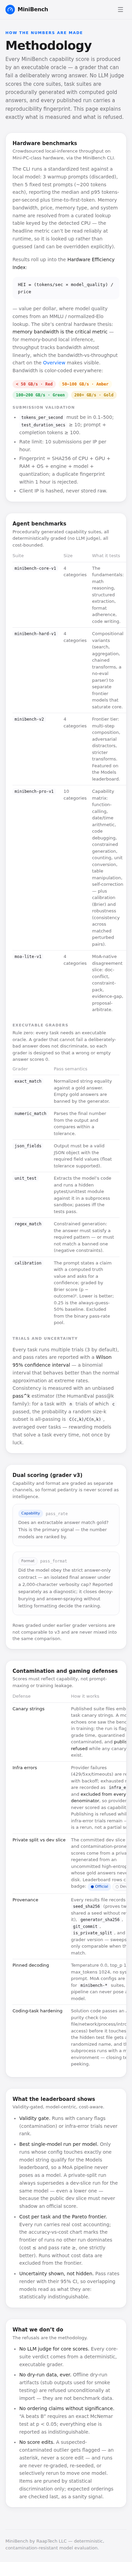
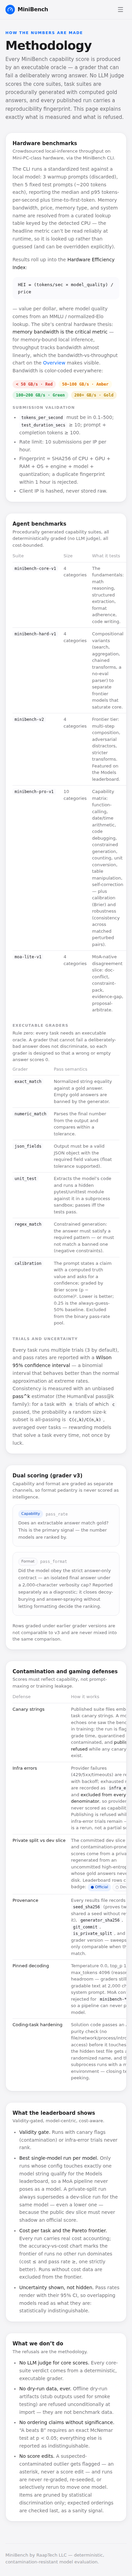
Era 1 red team: fix methodology max_tokens claim, importer counter laundering, auto-widen race
- /methodology: pinned decoding now correctly states max_tokens 4096 (with the
  2,000-char gradable-text cap noted), matching single_model_config.
- import_results: summary counters can no longer launder per-trial canary/infra
  flags (max of summary and computed); regression test added.
- /models auto-widen: suitePinned ref read at response time replaces the state
  flag, so a stale in-flight response can never override a user's suite choice.
- eras/era-1/RED-TEAM.md: findings, confirmed-safe checks, accepted risks.
- Era artifacts: gate logs (.txt — *.log is gitignored) + verification screenshots.

Claude-Session: https://claude.ai/code/session_01BnB1nL5iGjV8DDFupR4AYi

Changed region(s): [[0.0615, 0.0, 0.9538, 0.9684], [0.0923, 0.3749, 0.3385, 0.4373]]

diff --git a/frontend/src/pages/Models.tsx b/frontend/src/pages/Models.tsx
@@ -1,4 +1,4 @@
-import { useCallback, useEffect, useMemo, useState } from 'react';
+import { useCallback, useEffect, useMemo, useRef, useState } from 'react';
 import { Link } from 'react-router-dom';
 import {
   ScatterChart, Scatter, XAxis, YAxis, CartesianGrid, Tooltip, ResponsiveContainer,
@@ -60,8 +60,10 @@ export default function Models() {
   const [newModels, setNewModels] = useState<KnownModel[]>([]);
   const [suite, setSuite] = useState('minibench-v2');
   // One-shot: if the default suite has no published runs yet, widen to all
-  // suites instead of opening on an empty page. Never overrides a user choice.
-  const [autoWidened, setAutoWidened] = useState(false);
+  // suites instead of opening on an empty page. A ref (read at response time,
+  // set synchronously on any user choice or prior widen) rather than state,
+  // so a stale in-flight response can never override the user's selection.
+  const suitePinned = useRef(false);
   const [sortKey, setSortKey] = useState<SortKey>('pass_rate');
   const [sortDir, setSortDir] = useState<SortDir>('desc');
   const [chartMetric, setChartMetric] = useState<string>('pass_rate');
@@ -77,8 +79,8 @@ export default function Models() {
     if (suite) params.suite = suite;
     Promise.all([
       api.getModelLeaderboard(params).then((list) => {
-        if (list.length === 0 && suite === 'minibench-v2' && !autoWidened) {
-          setAutoWidened(true);
+        if (list.length === 0 && suite === 'minibench-v2' && !suitePinned.current) {
+          suitePinned.current = true;
           setSuite('');
           return;
         }
@@ -86,7 +88,7 @@ export default function Models() {
       }),
       api.getNewModels().then(setNewModels).catch(() => setNewModels([])),
     ]).catch((e) => setError(e.message)).finally(() => setLoading(false));
-  }, [suite, autoWidened]);
+  }, [suite]);
 
   useEffect(() => {
     // eslint-disable-next-line react-hooks/set-state-in-effect
@@ -170,7 +172,7 @@ export default function Models() {
       )}
 
       <div className="flex flex-wrap items-end gap-4">
-        <Select label="Suite" value={suite} onChange={(e) => { setAutoWidened(true); setSuite(e.target.value); }}>
+        <Select label="Suite" value={suite} onChange={(e) => { suitePinned.current = true; setSuite(e.target.value); }}>
           {SUITE_OPTIONS.map((o) => (
             <option key={o.value || 'all'} value={o.value}>{o.label}</option>
           ))}

diff --git a/frontend/src/pages/Methodology.tsx b/frontend/src/pages/Methodology.tsx
@@ -80,7 +80,7 @@ const DEFENSES: ReactRow[] = [
   ],
   [
     'Pinned decoding',
-    <>Temperature 0.0, top_p 1.0, max_tokens 1024, no system prompt. MoA configs are rejected for <Mono>minibench-*</Mono> suites, so a pipeline can never pose as a model.</>,
+    <>Temperature 0.0, top_p 1.0, max_tokens 4096 (reasoning headroom — graders still cap gradable text at 2,000 chars), no system prompt. MoA configs are rejected for <Mono>minibench-*</Mono> suites, so a pipeline can never pose as a model.</>,
   ],
   [
     'Coding-task hardening',

diff --git a/agentbench/import_results.py b/agentbench/import_results.py
@@ -89,13 +89,16 @@ def artifact_to_payload(
 
     trials = load_trials(raw_trials)
 
-    n_canary = summary.get("n_canary_flags", sum(t.canary_flag for t in trials))
+    # Defense in depth: never trust the summary counters over the trials
+    # themselves — an artifact whose summary says 0 while a trial carries the
+    # flag is refused, not laundered.
+    n_canary = max(summary.get("n_canary_flags", 0), sum(t.canary_flag for t in trials))
     if n_canary > 0:
         raise ImportRefused(
             f"{source}: {n_canary} canary-echo trial(s) — training contamination; "
             "quarantine this artifact."
         )
-    n_infra = summary.get("n_infra_errors", sum(t.infra_error for t in trials))
+    n_infra = max(summary.get("n_infra_errors", 0), sum(t.infra_error for t in trials))
     if n_infra > 0 and not allow_infra_errors:
         raise ImportRefused(
             f"{source}: {n_infra} infra-error trial(s) — partial run; rerun it or "

diff --git a/agentbench/tests/test_import_results.py b/agentbench/tests/test_import_results.py
@@ -101,6 +101,19 @@ def test_canary_refused_from_summary_and_from_trials():
         artifact_to_payload(art, source="x.json")
 
 
+def test_lying_summary_cannot_launder_flagged_trials():
+    """Summary counters saying 0 must not override per-trial flags."""
+    art = _legacy_artifact(n_canary_flags=0)
+    art["trials"][0]["canary_flag"] = True
+    with pytest.raises(ImportRefused, match="canary"):
+        artifact_to_payload(art, source="x.json")
+
+    art = _legacy_artifact(n_infra_errors=0)
+    art["trials"][0]["infra_error"] = True
+    with pytest.raises(ImportRefused, match="infra-error"):
+        artifact_to_payload(art, source="x.json")
+
+
 def test_infra_errors_refused_unless_allowed():
     art = _legacy_artifact(n_infra_errors=2)
     with pytest.raises(ImportRefused, match="infra-error"):

diff --git a/eras/era-1/RED-TEAM.md b/eras/era-1/RED-TEAM.md
@@ -1,0 +1,59 @@
+# Era 1 — Red Team
+
+**Process note.** The dedicated adversarial agent was killed mid-run by a
+session usage limit (external, not a repo failure). Per the goal-loop rule
+(same obstacle → different approach, never stall), the red team re-ran
+**inline**: same claim list, evidence gathered by direct code reads and
+commands. A parallel completeness-critic agent covered the definition-of-done
+sweep. Findings below; every defect was fixed in-branch and re-gated before
+ship.
+
+## Defects found (all fixed)
+
+| # | Severity | Finding | Evidence | Fix |
+|---|----------|---------|----------|-----|
+| RT‑1 | should‑fix (factual error) | `/methodology` claimed decoding pins `max_tokens 1024`; the actual pinned value is **4096** (`agentbench/config.py:173-187`, chosen deliberately for reasoning-model headroom). A methodology page with a wrong number defeats its own purpose. | `single_model_config(..., max_tokens: int = 4096)` vs page text | Page now states 4096 and explains the 2,000-char gradable-text cap alongside it |
+| RT‑2 | should‑fix (data honesty) | The importer trusted `summary.n_canary_flags` / `n_infra_errors` when the keys were **present**, falling back to per-trial flags only when absent — so an artifact whose summary said `0` while a trial carried `canary_flag: true` would import cleanly (laundering) | `import_results.py` used `summary.get(key, computed)` | Now takes `max(summary counter, computed-from-trials)`; regression test `test_lying_summary_cannot_launder_flagged_trials` covers both canary and infra |
+| RT‑3 | should‑fix (race) | Auto-widen on `/models` used state captured in a stale closure: if the user picked a suite while the initial empty-default response was in flight, the late response could override the user's choice with "All suites" | `Models.tsx` load callback closed over `suite`/`autoWidened` | Replaced the state flag with a `suitePinned` ref set synchronously on any user choice and read at response time; a stale response can no longer override |
+
+## Attacked and confirmed safe
+
+- **Importer dry-run gate** — refused unconditionally, no override flag exists;
+  drove it with a real dry-run artifact during development and it refused
+  (`REFUSED ... dry_run artifact`). Residual risk, accepted and documented: an
+  artifact *missing* the `dry_run` key imports as live. The gate defends
+  against accidents, not against a forger — a forger could equally write
+  `"dry_run": false`, so a hard-fail on a missing key would add friction, not
+  security. Provenance fields exist for authenticity questions.
+- **Payload fidelity** — importer reuses `to_agent_run_submit` + `publish_run`
+  from `run.py` (single source of truth), so fraction→percent scaling, CI
+  bounds, latency ints, and token sums cannot drift from the live path.
+  Verified live: 26/26 artifacts published; leaderboard values match artifact
+  summaries (e.g. `pass_rate 0.9833 → 98.33`).
+- **Trials containing `infra_error`** — included in `results[]` exactly as the
+  live publish path does; runs containing them are refused by default anyway.
+- **scoreScale correctness** — band boundaries (85/70/55/40), clamping, and
+  null-in/null-out covered by 6 node tests; missing category data renders
+  untinted `—`, never a fake color.
+- **CI compatibility** — agentbench CI job runs `pytest -q` *before* the
+  dry-run smokes (`.github/workflows/ci.yml`), and the drift-guard test
+  filters `dry_run` artifacts anyway; test imports follow the same
+  `from agentbench.x import y` pattern as every existing test (CI-proven);
+  frontend lint has no `--max-warnings`, and errors are at 0.
+- **Legacy-notice behavior** — `/leaderboard` still sets the one-shot flag,
+  `/models` consumes it exactly once (lazy `useState` initializer); only the
+  file layout changed.
+- **Era-doc factual claims** — spot-checked counts against command output: 26
+  committed live artifacts (26 published / 0 refused / 0 failed), 22 model
+  leaderboard rows, 165→166 agentbench tests after the regression test,
+  gate exit codes in `gates/*.txt`.
+
+## Accepted risks (documented, seeded for Era 2)
+
+1. **No server-side idempotency** on `POST /api/v1/agents/runs`: re-importing
+   duplicates rows (model leaderboard unaffected — best run per model).
+2. **"All suites" mixes tiers**: best-run-per-model preference favors the
+   easier suite when a model has runs on several (pre-existing endpoint
+   behavior, now more visible because the page can auto-widen).
+3. **Category cells are single-trial-set pass rates** without per-category CIs;
+   the heatmap could over-signal certainty on 15-trial categories.
